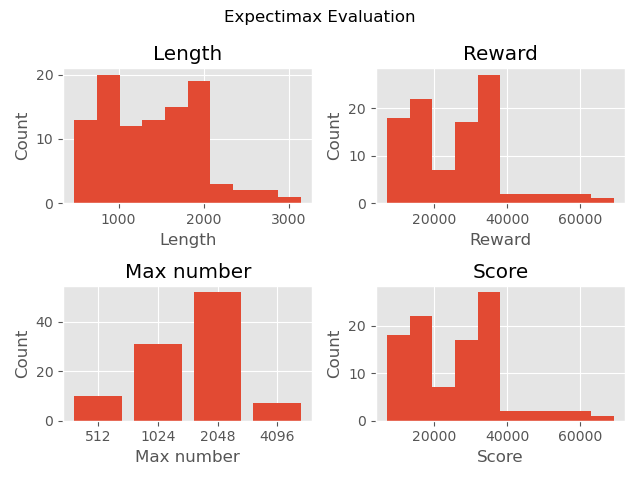
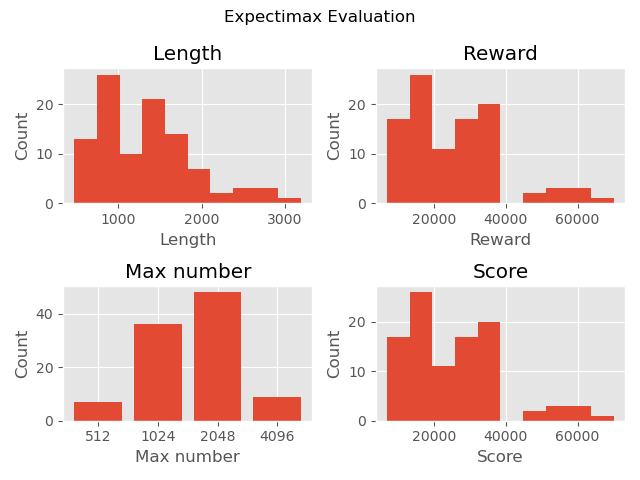
cnn : tqdm

diff --git a/tests/test_supervised_train_smoke.py b/tests/test_supervised_train_smoke.py
@@ -1,15 +1,20 @@
 import numpy as np
 import pytest
 import torch
+from torch.utils.data import DataLoader, TensorDataset
 
 from gymnasium_2048.agents.expectimax import save_expectimax_dataset
+from gymnasium_2048.agents import supervised_cnn
 from gymnasium_2048.agents.supervised_cnn import (
     CNNAfterstateEvaluator,
+    CNNConfig,
+    SupervisedCNN,
     SupervisedTrainingConfig,
     encode_board,
     resolve_device,
     train_supervised_cnn,
 )
+from gymnasium_2048.agents.supervised_cnn.train import _run_epoch
 
 
 def _write_toy_dataset(path):
@@ -78,3 +83,45 @@ def test_resolve_device_auto_returns_valid_torch_device():
     device = resolve_device("auto")
 
     assert device.type in {"cpu", "cuda"}
+
+
+def test_run_epoch_reports_batch_progress_with_loss(monkeypatch):
+    progress_bars = []
+
+    class FakeTqdm:
+        def __init__(self, iterable, **kwargs):
+            self.iterable = iterable
+            self.kwargs = kwargs
+            self.postfixes = []
+            progress_bars.append(self)
+
+        def __iter__(self):
+            yield from self.iterable
+
+        def set_postfix(self, **kwargs):
+            self.postfixes.append(kwargs)
+
+    monkeypatch.setattr(supervised_cnn.train, "tqdm", FakeTqdm)
+
+    boards = torch.zeros((4, 16, 4, 4), dtype=torch.float32)
+    targets = torch.arange(4, dtype=torch.float32)
+    loader = DataLoader(TensorDataset(boards, targets), batch_size=2)
+    model = SupervisedCNN(CNNConfig(input_channels=16, conv_channels=4, hidden_size=8))
+
+    loss = _run_epoch(
+        model,
+        loader,
+        torch.device("cpu"),
+        target_mean=0.0,
+        target_std=1.0,
+        loss_kind="mse",
+        optimizer=None,
+        description="Epoch 1/2 validation",
+        progress=True,
+    )
+
+    assert isinstance(loss, float)
+    assert progress_bars[0].kwargs["desc"] == "Epoch 1/2 validation"
+    assert progress_bars[0].kwargs["unit"] == "batch"
+    assert len(progress_bars[0].postfixes) == 2
+    assert "loss" in progress_bars[0].postfixes[-1]

diff --git a/src/gymnasium_2048/agents/supervised_cnn/train.py b/src/gymnasium_2048/agents/supervised_cnn/train.py
@@ -8,6 +8,7 @@ from typing import Any
 import numpy as np
 import torch
 from torch.utils.data import DataLoader
+from tqdm import tqdm
 
 from gymnasium_2048.agents.supervised_cnn.data import (
     AfterstateDataset,
@@ -40,6 +41,7 @@ class SupervisedTrainingConfig:
     loss: str = "huber"
     target_normalization: bool = True
     symmetry_augmentation: bool = True
+    progress: bool = True
 
 
 def resolve_device(device: str) -> torch.device:
@@ -61,13 +63,20 @@ def _run_epoch(
     target_std: float,
     loss_kind: str,
     optimizer: torch.optim.Optimizer | None,
+    description: str,
+    progress: bool = True,
 ) -> float:
     training = optimizer is not None
     model.train(training)
     total_loss = 0.0
     total_samples = 0
 
-    for boards, targets in loader:
+    batches = (
+        tqdm(loader, desc=description, unit="batch", leave=False)
+        if progress
+        else loader
+    )
+    for boards, targets in batches:
         boards = boards.to(device)
         targets = targets.to(device)
         normalized_targets = (targets - target_mean) / target_std
@@ -81,6 +90,8 @@ def _run_epoch(
         batch_size = int(len(targets))
         total_loss += float(loss.detach().cpu()) * batch_size
         total_samples += batch_size
+        if progress:
+            batches.set_postfix(loss=f"{total_loss / max(total_samples, 1):.6f}")
 
     return total_loss / max(total_samples, 1)
 
@@ -197,6 +208,8 @@ def train_supervised_cnn(
             target_std,
             config.loss,
             optimizer,
+            description=f"Epoch {epoch}/{config.epochs} train",
+            progress=config.progress,
         )
         with torch.no_grad():
             validation_loss = (
@@ -208,6 +221,8 @@ def train_supervised_cnn(
                     target_std,
                     config.loss,
                     None,
+                    description=f"Epoch {epoch}/{config.epochs} validation",
+                    progress=config.progress,
                 )
                 if len(validation_dataset) > 0
                 else train_loss

diff --git a/src/gymnasium_2048/agents/supervised_cnn/config.py b/src/gymnasium_2048/agents/supervised_cnn/config.py
@@ -41,6 +41,7 @@ class SupervisedTrainingYamlConfig:
     loss: str = "huber"
     target_normalization: bool = True
     symmetry_augmentation: bool = True
+    progress: bool = True
 
 
 def next_supervised_run_dir(